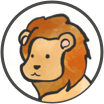
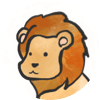
Refactor to use css border for images

Changed region(s): [[0.0, 0.0, 1.0, 1.0], [0.42, 0.51, 0.48, 0.57], [0.51, 0.27, 0.57, 0.3]]

diff --git a/assets/js/illustration_interaction.js b/assets/js/illustration_interaction.js
@@ -2,6 +2,9 @@ const attachListeners = () => {
     const headImages = document.getElementsByClassName('illustrationImage');
     for (var i = 0; i < headImages.length; i++) {
         let image = headImages[i];
+        if (i == 0) {
+            image.className += " illustrationImageSelected";
+        }
         image.addEventListener('click', changeSelection, false);
     }
 }
@@ -15,31 +18,27 @@ const getFileNameForImage = (image) => {
         return "";
     }
 
-    let finalPath = pathComponents.slice(-2);
-    let isSelected = finalPath[0] != 'illustrations';
-    let animalPath = finalPath[1];
-    return { animalPath, isSelected };
+    return pathComponents.slice(-1)[0];
 }
 
 const changeSelection = (e) => {
     let srcImage = e.srcElement;
-    let { animalPath, isSelected } = getFileNameForImage(srcImage);
-    console.log(isSelected);
-    console.log(animalPath);
-    const headImages = document.getElementsByClassName('illustrationImage');
+    let animalPath = getFileNameForImage(srcImage);
+    let isSelected = srcImage.className.includes("illustrationImageSelected");
     if (animalPath == null || animalPath.length == 0) {
         return;
     }
+    const headImages = document.getElementsByClassName('illustrationImage');
     var updatedAnimal = false;
     for (var i = 0; i < headImages.length; i++) {
         let image = headImages[i];
-        let results = getFileNameForImage(image);
-        let currentAnimalPath = results.animalPath;
-        if (currentAnimalPath == animalPath && results.isSelected == false) {
+        let currentAnimalPath = getFileNameForImage(image);
+        let currentIsSelected = image.className.includes("illustrationImageSelected");
+        if (currentAnimalPath == animalPath && currentIsSelected == false) {
             updatedAnimal = true;
-            image.src = 'assets/selected-illustrations/' + currentAnimalPath;
-        } else if (isSelected == false && results.isSelected) {
-            image.src = 'assets/illustrations/' + currentAnimalPath;
+            image.className += ' illustrationImageSelected';
+        } else if (currentAnimalPath != animalPath && currentIsSelected) {
+            image.className = image.className.replace(' illustrationImageSelected', '')
         }
     }
     let animalName = animalPath.split('-')[0];

diff --git a/_sass/layout.scss b/_sass/layout.scss
@@ -538,6 +538,11 @@ nav > ul li a:active {
 	height: 100px;
 }
 
+.illustrationImageSelected {
+	border: 3px solid #2577DC;
+	border-radius: 50px;
+}
+
 .illustrationMainContainer {
 	grid-area: s;
 	display: flex;
